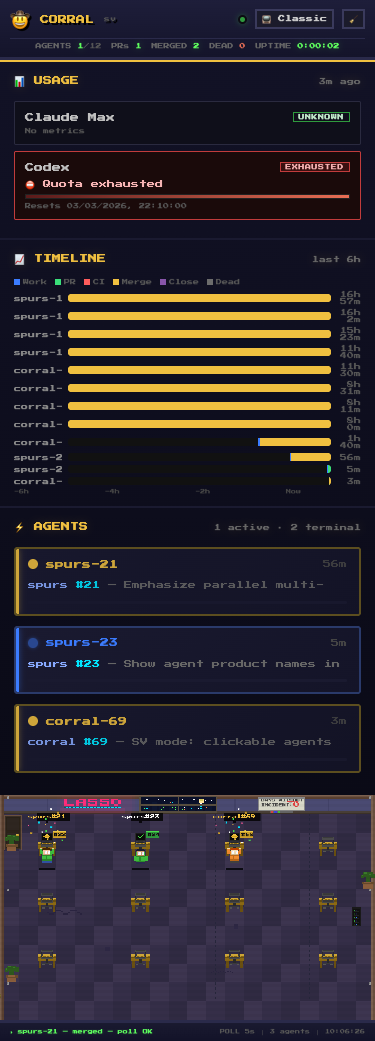
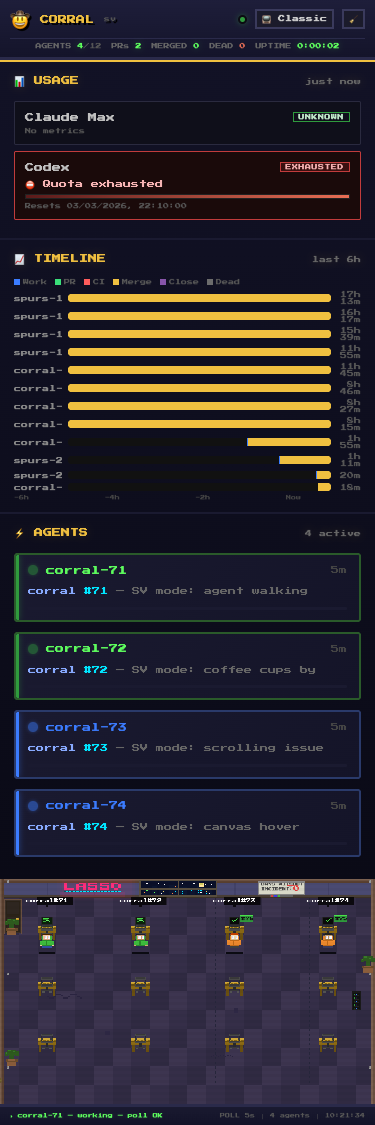
SV canvas: agent walking animation from door to desk on new job
When a new agent appears between polls, it spawns at the garage door
and walks along an L-shaped path to its assigned desk with leg
animation. Existing agents on page load appear instantly at their
desks (no walk). Multiple simultaneous arrivals stagger 0.5s apart.

- Add L-path builder with Manhattan routing (door → desk)
- Track transitions with time-based progress at 2 tiles/sec
- Detect new agents via prevAgentKeys set comparison
- Draw walking agents at interpolated positions with 'walking' state
- Skip desk rendering (character + decorations) during walk

diff --git a/sv.html b/sv.html
@@ -638,6 +638,11 @@ let connectionState = 'connecting';
 let polling = false;
 const startTime = Date.now();
 
+// --- Walk animation state ---
+let transitions = [];    // { key, deskIdx, path, progress, colorIdx, startTime }
+let prevAgentKeys = new Set();
+let hasInitialized = false;
+
 // --- Helpers ---
 function escapeHtml(value) {
   return String(value ?? '').replace(/[&<>"']/g, c => {
@@ -1051,6 +1056,7 @@ async function refreshFromLasso() {
     if (!agentsResp.ok) throw new Error('Agents fetch failed');
     const data = await agentsResp.json();
     agents = Array.isArray(data) ? data : (data.sessions || []);
+    detectNewAgents();
 
     if (historyResp.ok) {
       const hData = await historyResp.json();
@@ -1157,6 +1163,87 @@ const DESKS = [];
 for (let r = 0; r < 3; r++)
   for (let c = 0; c < 4; c++)
     DESKS.push({ x: 2 + c * 5, y: 2 + r * 3 });
+
+// --- Walk animation ---
+const DOOR_TILE = { x: 0, y: 1 };
+const WALK_SPEED = 2; // tiles per second
+const ENTER_STAGGER = 0.5; // seconds between multiple entering agents
+
+function agentKey(agent, fallbackIndex) {
+  if (!agent) return 'agent-' + fallbackIndex;
+  const id = (agent.id || agent.label || agent.agentId || agent.name || '').toString().trim();
+  return id || ('agent-' + fallbackIndex);
+}
+
+function buildPath(start, end) {
+  const mid = { x: end.x, y: start.y };
+  const seg1 = Math.abs(mid.x - start.x) + Math.abs(mid.y - start.y);
+  const seg2 = Math.abs(end.x - mid.x) + Math.abs(end.y - mid.y);
+  return { start: { ...start }, mid, end: { ...end }, seg1, seg2, total: seg1 + seg2 };
+}
+
+function positionAlongPath(path, dist) {
+  if (path.total === 0) return { x: path.end.x, y: path.end.y };
+  if (dist <= path.seg1) {
+    const dx = path.mid.x - path.start.x;
+    const dy = path.mid.y - path.start.y;
+    return {
+      x: path.start.x + (dx === 0 ? 0 : Math.sign(dx) * dist),
+      y: path.start.y + (dy === 0 ? 0 : Math.sign(dy) * dist),
+    };
+  }
+  const remaining = dist - path.seg1;
+  const dx = path.end.x - path.mid.x;
+  const dy = path.end.y - path.mid.y;
+  return {
+    x: path.mid.x + (dx === 0 ? 0 : Math.sign(dx) * remaining),
+    y: path.mid.y + (dy === 0 ? 0 : Math.sign(dy) * remaining),
+  };
+}
+
+function updateTransitions() {
+  if (!transitions.length) return;
+  const now = Date.now();
+  const next = [];
+  transitions.forEach(t => {
+    if (t.path.total === 0) return;
+    const elapsed = Math.max(0, now - t.startTime) / 1000;
+    t.progress = Math.min(t.path.total, elapsed * WALK_SPEED);
+    if (t.progress >= t.path.total) return;
+    next.push(t);
+  });
+  transitions = next;
+}
+
+function detectNewAgents() {
+  const currentKeys = new Set();
+  agents.slice(0, 12).forEach((a, i) => currentKeys.add(agentKey(a, i)));
+
+  if (hasInitialized) {
+    let staggerIdx = 0;
+    const now = Date.now();
+    const existingTransitionKeys = new Set(transitions.map(t => t.key));
+    agents.slice(0, 12).forEach((agent, idx) => {
+      const key = agentKey(agent, idx);
+      if (!prevAgentKeys.has(key) && !existingTransitionKeys.has(key)) {
+        const desk = DESKS[idx];
+        if (!desk) return;
+        transitions.push({
+          key,
+          deskIdx: idx,
+          path: buildPath(DOOR_TILE, { x: desk.x, y: desk.y }),
+          progress: 0,
+          colorIdx: idx % CHARS.length,
+          startTime: now + staggerIdx * ENTER_STAGGER * 1000,
+        });
+        staggerIdx++;
+      }
+    });
+  }
+
+  hasInitialized = true;
+  prevAgentKeys = currentKeys;
+}
 
 function R(x, y, w, h, color) { ctx.fillStyle = color; ctx.fillRect(x, y, w, h); }
 function tileRect(tx, ty, tw, th, color) { R(tx * S, ty * S, tw * S, th * S, color); }
@@ -1535,14 +1622,22 @@ function render() {
 
   DESKS.forEach(d => { drawDesk(d); drawChair(d); });
 
+  // Update walking transitions
+  updateTransitions();
+  const walkingDesks = new Set(transitions.map(t => t.deskIdx));
+
   const canvasAgents = buildCanvasAgents();
   canvasAgents.forEach(a => {
     const d = DESKS[a.desk];
     if (!d) return;
-    const screenState = a.failing ? 'ci_failed' :
+    const isWalking = walkingDesks.has(a.desk);
+    const screenState = isWalking ? 'pr_open' :
+      a.failing ? 'ci_failed' :
       a.state === 'coding' ? 'coding' :
       a.state === 'merged' ? 'merged' : 'pr_open';
     drawMonitor(d, screenState);
+
+    if (isWalking) return;
 
     if (a.dead) drawTombstone(d);
     else drawCharacter(d, a.ci, a.state);
@@ -1555,6 +1650,14 @@ function render() {
       drawBubble(d, a.label, bc);
     }
     if (a.state === 'merged') drawConfetti(d);
+  });
+
+  // Draw walking agents at interpolated positions
+  transitions.forEach(t => {
+    const now = Date.now();
+    if (now < t.startTime) return;
+    const pos = positionAlongPath(t.path, t.progress);
+    drawCharacter(pos, t.colorIdx, 'walking');
   });
 
   // Click glow feedback
